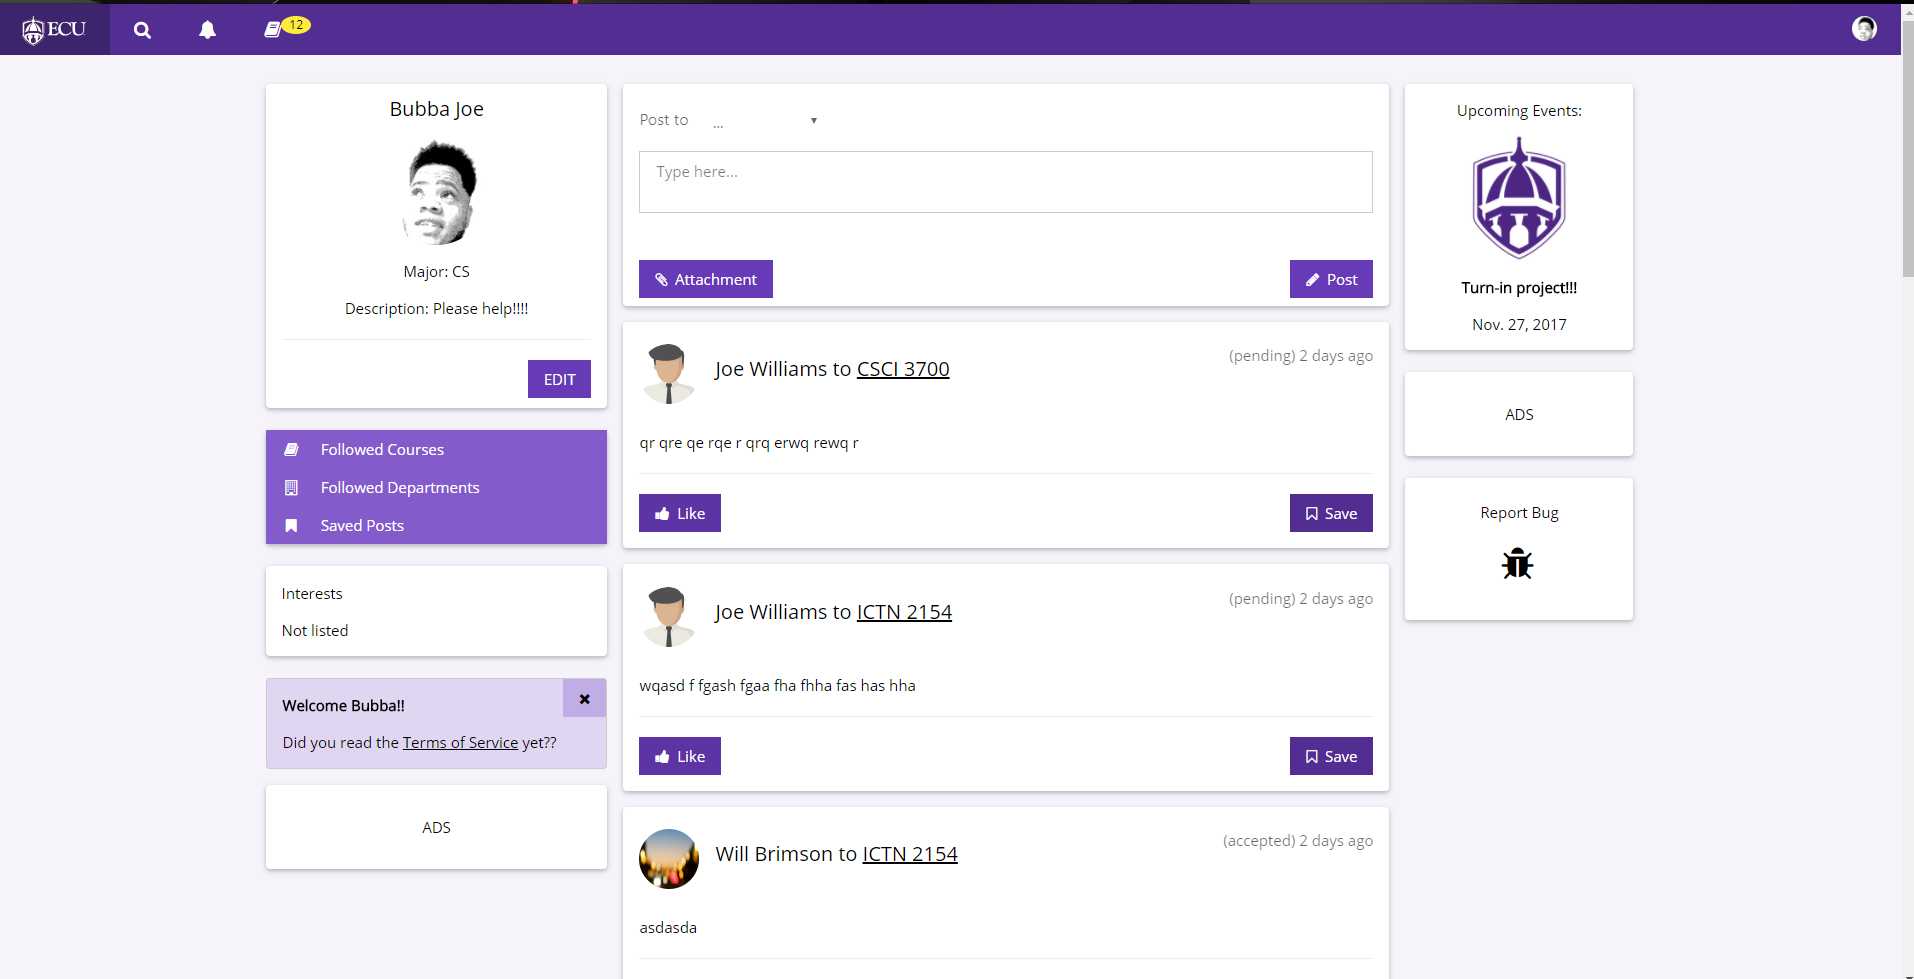
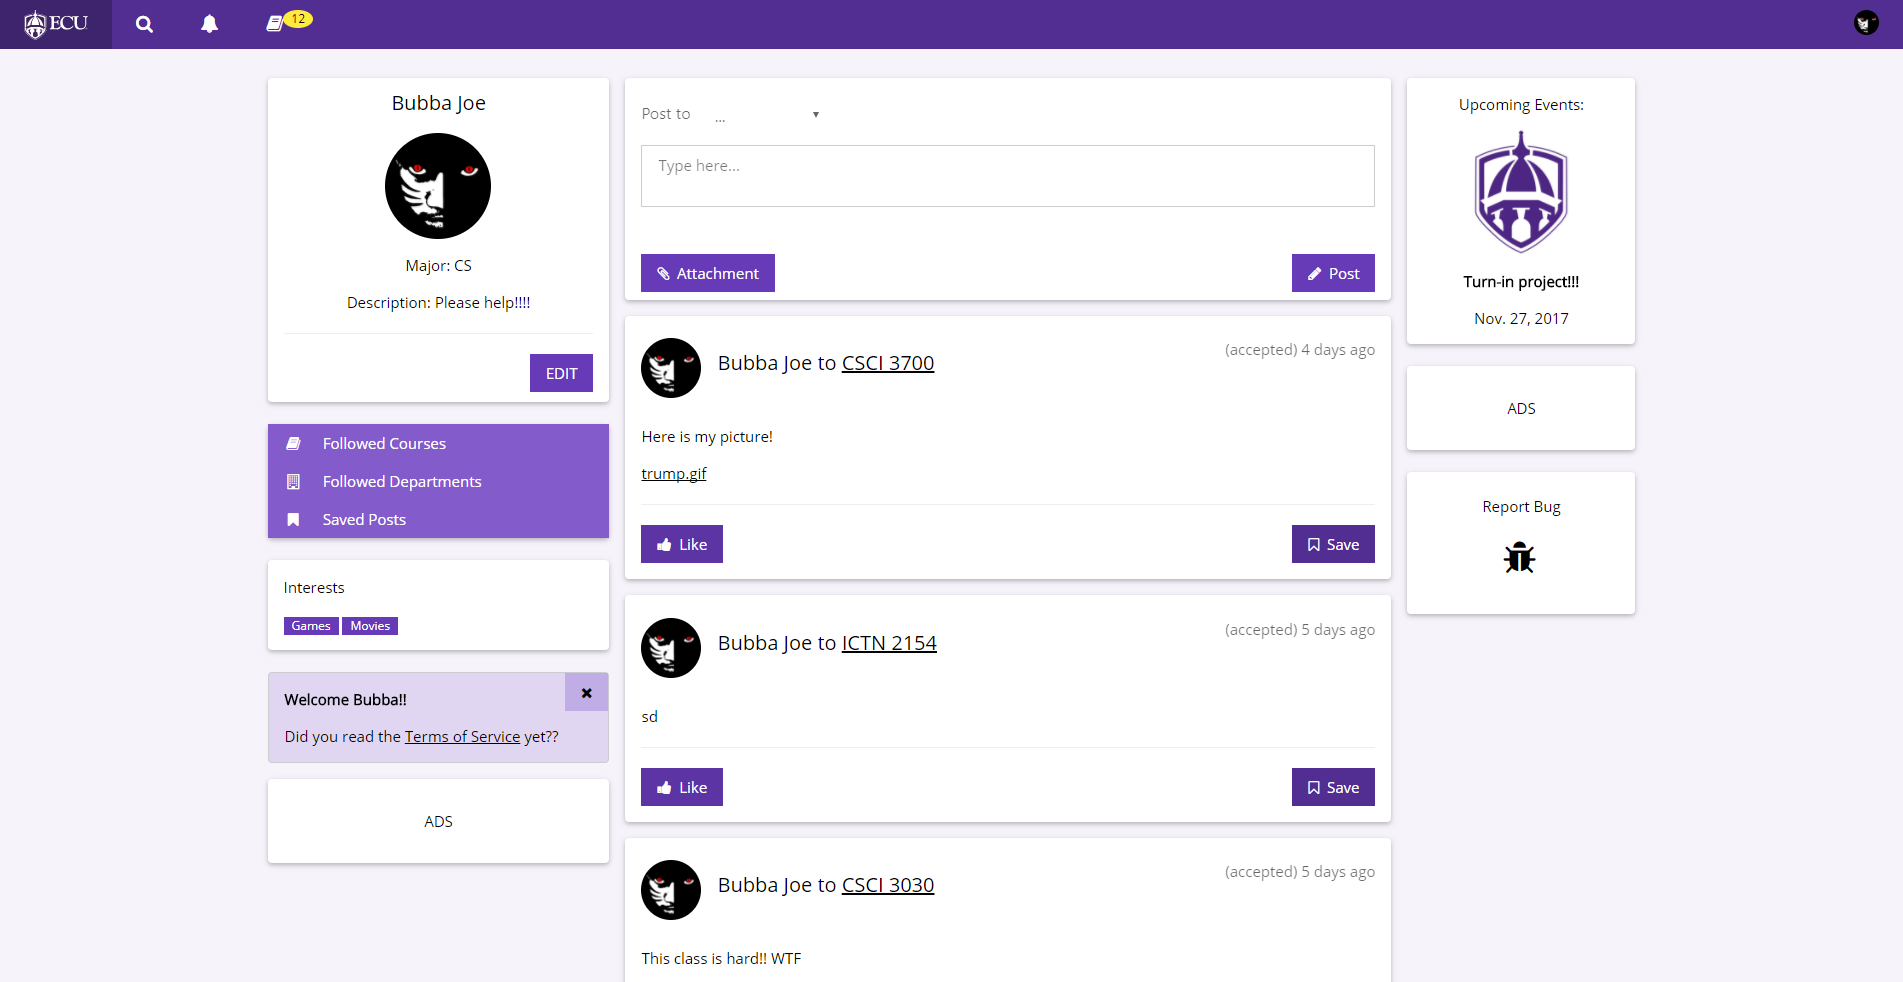
Final Commit!!

diff --git a/app/routes.js b/app/routes.js
@@ -508,7 +508,7 @@ module.exports = (app, io, pp) => {
         } else if(req.isAuthenticated()) {
             let courses = [], departments, myPosts = [], interests = [], notifications = [], savedPosts = []
             getUserCourses( req.user.id ).then( results => courses = results )
-            .then( () => getUserViewPosts( req.user.id )
+            .then( () => getUserPosts( req.user.id )
             .then( results => myPosts = results ))
             .then( () => getUserDepartments( req.user.id )
             .then( (depts) => departments = depts ))
@@ -517,7 +517,8 @@ module.exports = (app, io, pp) => {
             .then(() => getUserNotifications( req.user.id )
             .then( results => notifications = results ))
             .then(() => {
-                interests = (interests == '') ? interests = null : req.user.interests.split(", ");
+                console.log()
+                interests = (req.user.interests == '') ? interests = null : req.user.interests.split(", ");
                 res.render('home', {
                     alert: req.flash('alert'),
                     user: req.user,

diff --git a/README.md b/README.md
@@ -17,28 +17,57 @@ created by Joe Williams, Dakota Long, Ozayr Shareef, Will Brimson and Evan Loffi
 8. Run ```npm install``` or ```nodemon```
 9. ```http://localhost:8080```
 
-## Pictures
+# Pictures
+## Login
+![](https://raw.githubusercontent.com/bubbajoe/se-piratenotes/master/github_view/login1.PNG)
+### Validation for incorrect information
+![](https://raw.githubusercontent.com/bubbajoe/se-piratenotes/master/github_view/login2.PNG)
 
-### Login
-![?](https://raw.githubusercontent.com/bubbajoe/se-piratenotes/preview/img.png)
+## Register
+![](https://raw.githubusercontent.com/bubbajoe/se-piratenotes/master/github_view/register.PNG)
+### Validation for unaccepted email addresses
+![](https://raw.githubusercontent.com/bubbajoe/se-piratenotes/master/github_view/register3.PNG)
+### Email recieved after registration
+![](https://raw.githubusercontent.com/bubbajoe/se-piratenotes/master/github_view/verify_email.PNG)
 
-### Register
-![?](https://raw.githubusercontent.com/bubbajoe/se-piratenotes/preview/img.png)
+## Forgot password
+![](https://raw.githubusercontent.com/bubbajoe/se-piratenotes/master/github_view/forgot1.PNG)
+### Validation for unregistered emails
+![](https://raw.githubusercontent.com/bubbajoe/se-piratenotes/master/github_view/forgot2.PNG)
+### Email for the forgot password
+![](https://raw.githubusercontent.com/bubbajoe/se-piratenotes/master/github_view/forgot_email.PNG)
+### Reseting password
+![](https://raw.githubusercontent.com/bubbajoe/se-piratenotes/master/github_view/password.PNG)
 
-### Homepage
-![?](https://raw.githubusercontent.com/bubbajoe/se-piratenotes/preview/img.png)
+## Homepage
+![](https://raw.githubusercontent.com/bubbajoe/se-piratenotes/master/github_view/home1.PNG)
 
-### Account Editing
-![?](https://raw.githubusercontent.com/bubbajoe/se-piratenotes/preview/img.png)
+## Profile
+![](https://raw.githubusercontent.com/bubbajoe/se-piratenotes/master/github_view/profile.PNG)
 
-### Search
-![?](https://raw.githubusercontent.com/bubbajoe/se-piratenotes/preview/img.png)
+## Profile Editing
+### Editing basic profile information
+![](https://raw.githubusercontent.com/bubbajoe/se-piratenotes/master/github_view/account1.PNG)
+![](https://raw.githubusercontent.com/bubbajoe/se-piratenotes/master/github_view/account2.PNG)
+### validation for incorrect updating
+![](https://raw.githubusercontent.com/bubbajoe/se-piratenotes/master/github_view/account3.PNG)
 
-### Department View
-![?](https://raw.githubusercontent.com/bubbajoe/se-piratenotes/preview/img.png)
+## Search
+### Basic search interface
+![](https://raw.githubusercontent.com/bubbajoe/se-piratenotes/master/github_view/search1.PNG)
+### Shows the Search results and extra information and options
+![](https://raw.githubusercontent.com/bubbajoe/se-piratenotes/master/github_view/search2.PNG)
 
-### Course View
-![?](https://raw.githubusercontent.com/bubbajoe/se-piratenotes/preview/img.png)
+## Department View
+### Shows the courses that exist for this department
+![](https://raw.githubusercontent.com/bubbajoe/se-piratenotes/master/github_view/department.PNG)
 
-### Admin View
-![?](https://raw.githubusercontent.com/bubbajoe/se-piratenotes/preview/img.png)
+## Course View
+### Shows posts that have been accepted
+![](https://raw.githubusercontent.com/bubbajoe/se-piratenotes/master/github_view/course2.PNG)
+
+## Admin View
+### Allows admins or mods to decline or accept post from being seen
+![](https://raw.githubusercontent.com/bubbajoe/se-piratenotes/master/github_view/admin.PNG)
+
+### Look in the ```/github_view``` for all pictures and more.
